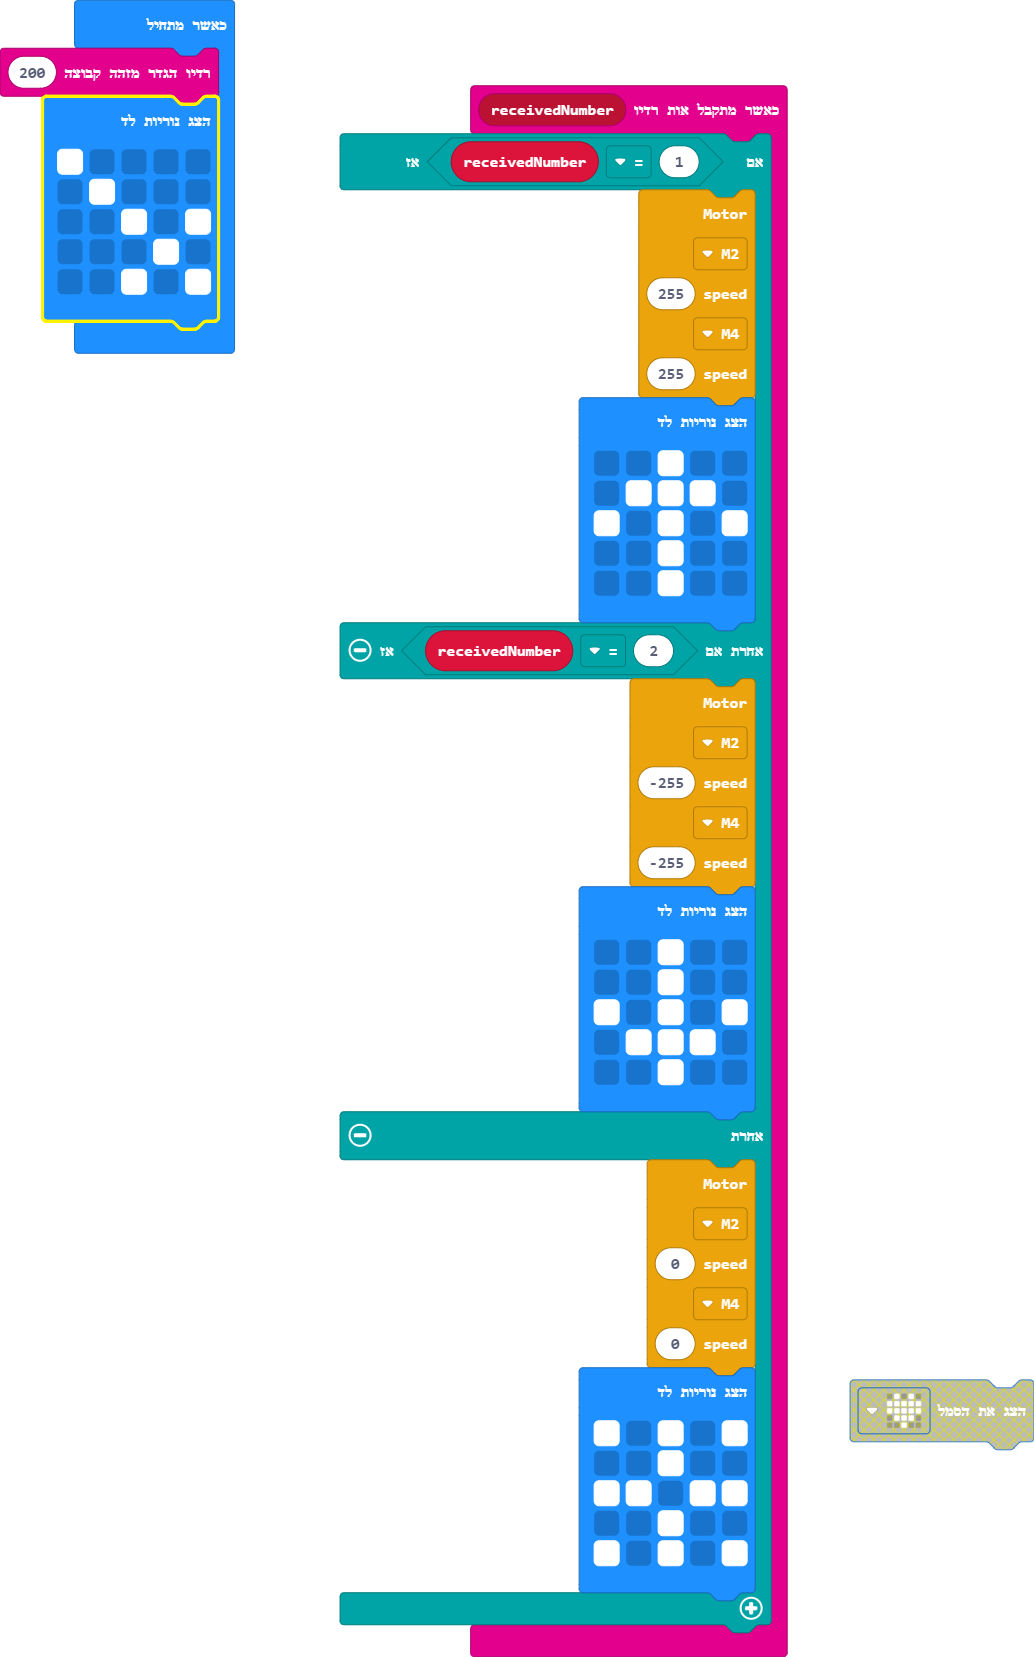
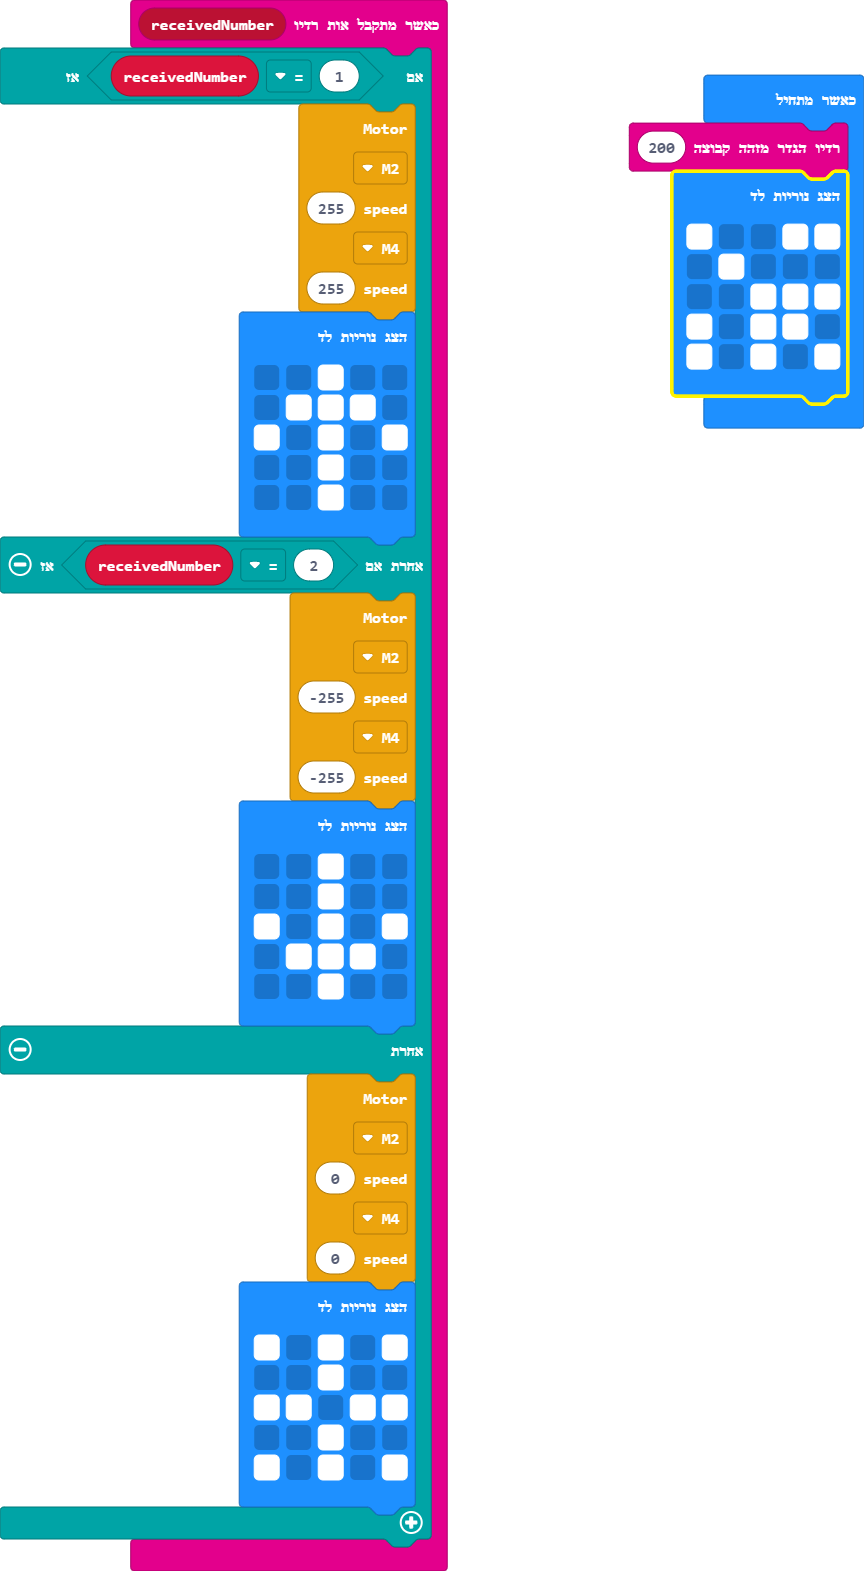
Update main.blocks, main.ts

diff --git a/main.ts b/main.ts
@@ -45,9 +45,9 @@ radio.onReceivedNumber(function (receivedNumber) {
 })
 radio.setGroup(200)
 basic.showLeds(`
-    # . . . .
+    # . . # #
     . # . . .
-    . . # . #
-    . . . # .
-    . . # . #
+    . . # # #
+    # . # # .
+    # . # . #
     `)
